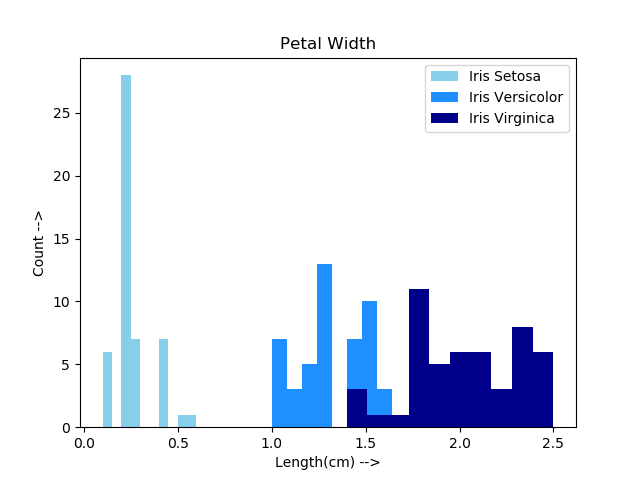
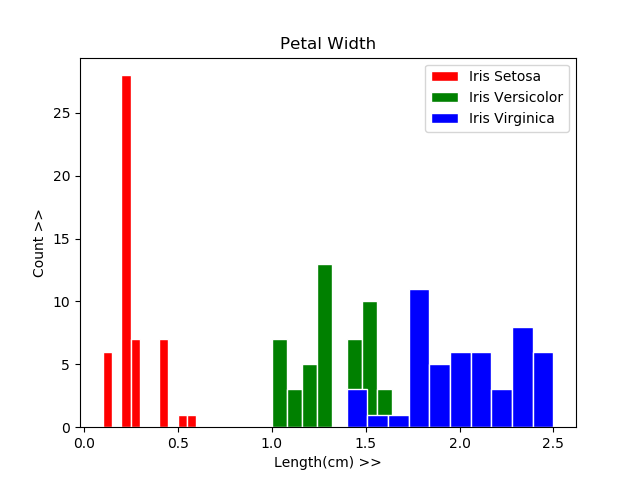
Plot Updates

diff --git a/analysis.py b/analysis.py
@@ -58,46 +58,46 @@ def hist(df):
     iris_vers = df[df['species'] == 'versicolor']
     iris_virg = df[df['species'] == 'virginica']
 
-    plt.hist(iris_set['petal_length'], color = "skyblue", label="Iris Setosa")
-    plt.hist(iris_vers['petal_length'], color = "dodgerblue", label="Iris Versicolor")
-    plt.hist(iris_virg['petal_length'], color = "darkblue", label="Iris Virginica")
+    plt.hist(iris_set['petal_length'], color = "red", edgecolor="white", label="Iris Setosa")
+    plt.hist(iris_vers['petal_length'], color = "green", edgecolor="white", label="Iris Versicolor")
+    plt.hist(iris_virg['petal_length'], color = "blue", edgecolor="white", label="Iris Virginica")
     plt.legend(loc="upper right")
     plt.title("Petal Length")
-    plt.xlabel("Length(cm) -->")
-    plt.ylabel("Count -->")
+    plt.xlabel("Length(cm) >>")
+    plt.ylabel("Count >>")
     plt.savefig("plots/hist-petal_length.png")
     plt.clf()
 
 
-    plt.hist(iris_set['petal_width'], color = "skyblue", label="Iris Setosa")
-    plt.hist(iris_vers['petal_width'], color = "dodgerblue", label="Iris Versicolor")
-    plt.hist(iris_virg['petal_width'], color = "darkblue", label="Iris Virginica")
+    plt.hist(iris_set['petal_width'], color = "red", edgecolor="white", label="Iris Setosa")
+    plt.hist(iris_vers['petal_width'], color = "green", edgecolor="white", label="Iris Versicolor")
+    plt.hist(iris_virg['petal_width'], color = "blue", edgecolor="white", label="Iris Virginica")
     plt.legend()
     plt.title("Petal Width")
-    plt.xlabel("Length(cm) -->")
-    plt.ylabel("Count -->")
+    plt.xlabel("Length(cm) >>")
+    plt.ylabel("Count >>")
     plt.savefig("plots/hist-petal_width.png")
     plt.clf()
 
 
-    plt.hist(iris_set['sepal_length'], color = "skyblue", label="Iris Setosa")
-    plt.hist(iris_vers['sepal_length'], color = "dodgerblue", label="Iris Versicolor")
-    plt.hist(iris_virg['sepal_length'], color = "darkblue", label="Iris Virginica")
+    plt.hist(iris_set['sepal_length'], color = "red", edgecolor="white", label="Iris Setosa")
+    plt.hist(iris_vers['sepal_length'], color = "green", edgecolor="white", label="Iris Versicolor")
+    plt.hist(iris_virg['sepal_length'], color = "blue", edgecolor="white", label="Iris Virginica")
     plt.legend()
     plt.title("Sepal Length")
-    plt.xlabel("Length(cm) -->")
-    plt.ylabel("Count -->")
+    plt.xlabel("Length(cm) >>")
+    plt.ylabel("Count >>")
     plt.savefig("plots/hist-sepal_length.png")
     plt.clf()
 
 
-    plt.hist(iris_set['sepal_width'], color = "skyblue", label="Iris Setosa")
-    plt.hist(iris_vers['sepal_width'], color = "dodgerblue", label="Iris Versicolor")
-    plt.hist(iris_virg['sepal_width'], color = "darkblue", label="Iris Virginica")
+    plt.hist(iris_set['sepal_width'], color = "red", edgecolor="white", label="Iris Setosa")
+    plt.hist(iris_vers['sepal_width'], color = "green", edgecolor="white", label="Iris Versicolor")
+    plt.hist(iris_virg['sepal_width'], color = "blue", edgecolor="white", label="Iris Virginica")
     plt.legend()
     plt.title("Sepal Width")
-    plt.xlabel("Length(cm) -->")
-    plt.ylabel("Count -->")
+    plt.xlabel("Length(cm) >>")
+    plt.ylabel("Count >>")
     plt.savefig("plots/hist-sepal_width.png")
     plt.clf()
 
@@ -277,7 +277,7 @@ def main():
     df = pd.read_csv("iris.csv")
     summary()
     hist(df)
-    #plots(df)
+    plots(df)
 
 
 
